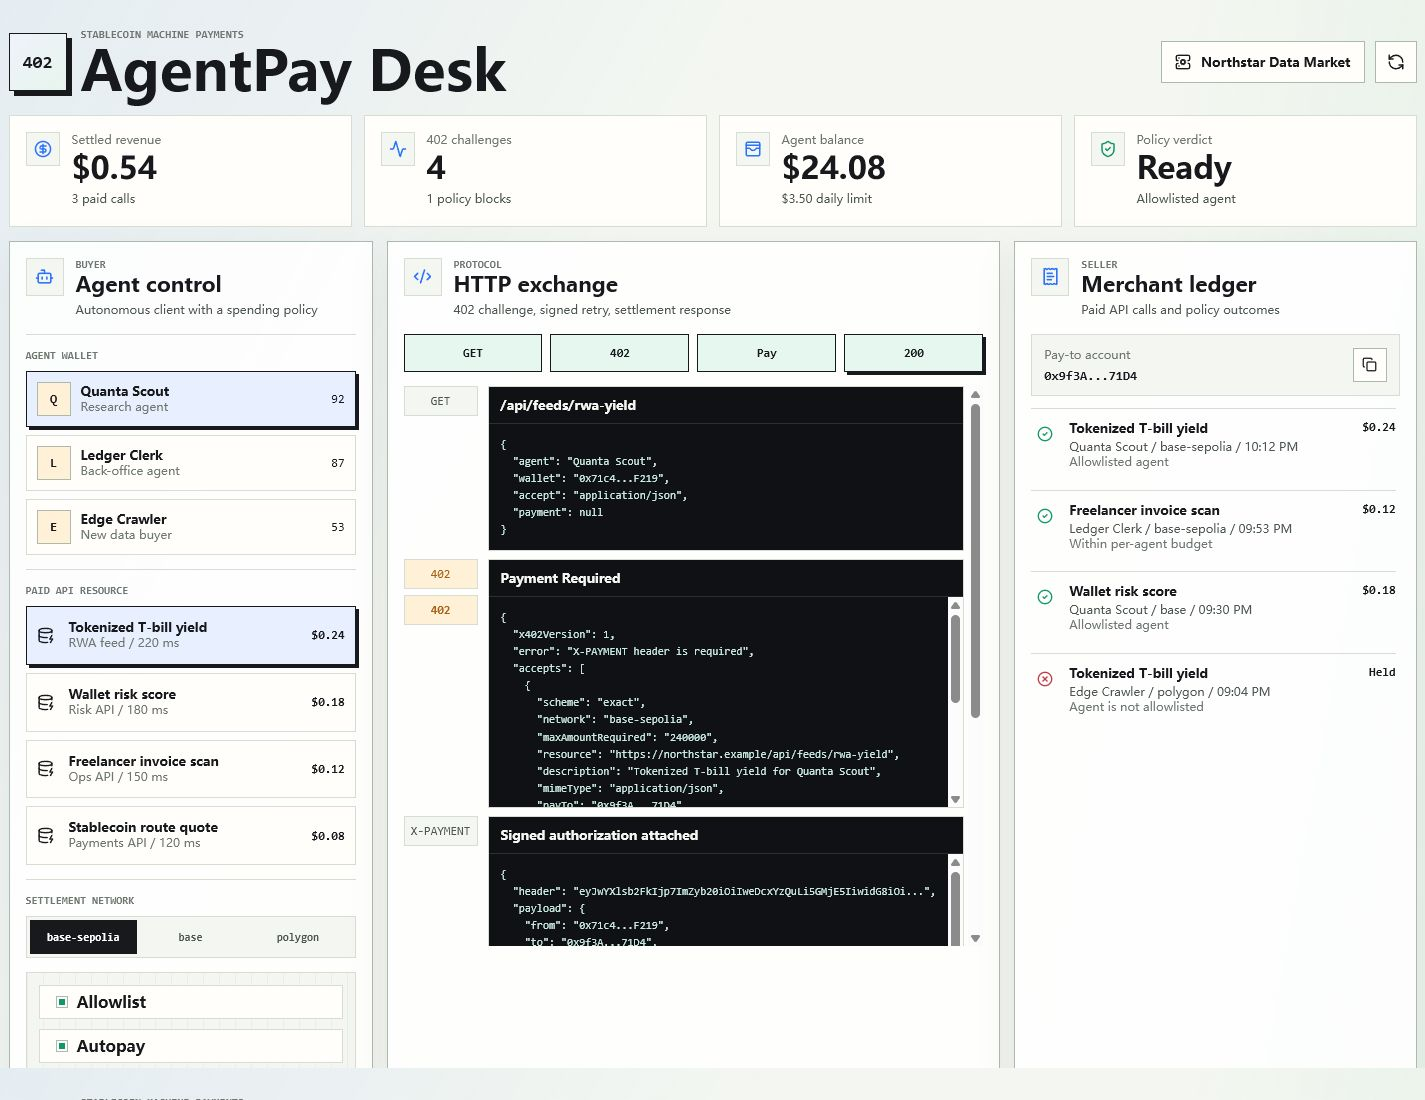
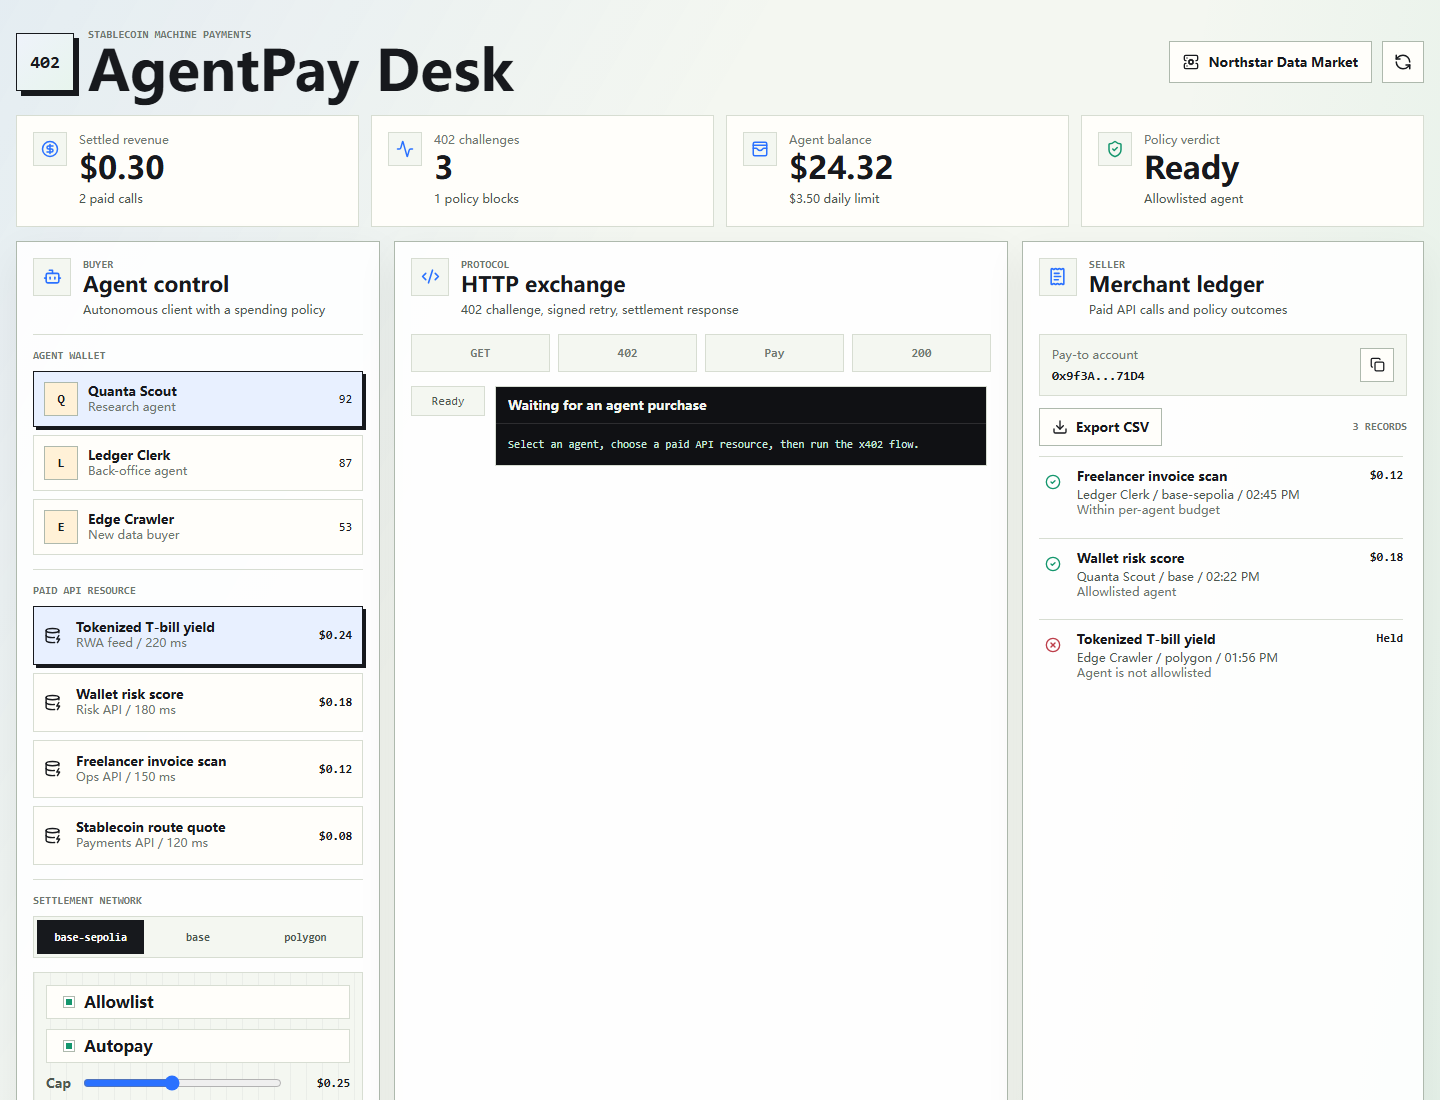
Add merchant ledger CSV export

diff --git a/src/App.css b/src/App.css
@@ -553,6 +553,46 @@ pre {
   font-size: 13px;
 }
 
+.ledger-toolbar {
+  display: flex;
+  align-items: center;
+  justify-content: space-between;
+  gap: 10px;
+  margin-bottom: 10px;
+}
+
+.ledger-toolbar > span {
+  color: var(--muted);
+  font-family: var(--mono);
+  font-size: 11px;
+  font-weight: 750;
+  text-transform: uppercase;
+}
+
+.secondary-action {
+  display: inline-flex;
+  min-height: 38px;
+  align-items: center;
+  justify-content: center;
+  gap: 8px;
+  padding: 0 12px;
+  border: 1px solid var(--line-strong);
+  background: var(--panel);
+  color: var(--ink);
+  cursor: pointer;
+  font-size: 13px;
+  font-weight: 850;
+  transition:
+    background 160ms ease,
+    transform 160ms ease,
+    box-shadow 160ms ease;
+}
+
+.secondary-action:hover {
+  transform: translateY(-1px);
+  box-shadow: 3px 3px 0 var(--ink);
+}
+
 .ledger-list {
   max-height: 480px;
   overflow: auto;

diff --git a/src/lib/x402Simulator.ts b/src/lib/x402Simulator.ts
@@ -369,6 +369,35 @@ export function createPayload(resource: ApiResource, settlementRef: string) {
   };
 }
 
+export function ledgerToCsv(entries: LedgerEntry[]): string {
+  const headers = [
+    "payment_id",
+    "created_at",
+    "status",
+    "agent_name",
+    "agent_wallet",
+    "resource_name",
+    "amount_usd",
+    "network",
+    "settlement_ref",
+    "risk_note",
+  ];
+  const rows = entries.map((entry) => [
+    entry.id,
+    entry.createdAt,
+    entry.status,
+    entry.agentName,
+    entry.wallet,
+    entry.resourceName,
+    entry.amountUsd.toFixed(2),
+    entry.network,
+    entry.settlementRef,
+    entry.riskNote,
+  ]);
+
+  return [headers, ...rows].map((row) => row.map(csvField).join(",")).join("\n");
+}
+
 export function money(value: number): string {
   return new Intl.NumberFormat("en-US", {
     style: "currency",
@@ -394,6 +423,14 @@ export function formatTime(value: string): string {
 
 function usdToUnits(value: number): string {
   return String(Math.round(value * 1_000_000));
+}
+
+function csvField(value: string): string {
+  if (/[",\n\r]/.test(value)) {
+    return `"${value.replace(/"/g, '""')}"`;
+  }
+
+  return value;
 }
 
 function randomToken(length: number): string {

diff --git a/src/App.tsx b/src/App.tsx
@@ -6,6 +6,7 @@ import {
   Code2,
   Copy,
   DatabaseZap,
+  Download,
   Play,
   ReceiptText,
   RefreshCcw,
@@ -28,6 +29,7 @@ import {
   createPayload,
   evaluateRisk,
   formatTime,
+  ledgerToCsv,
   merchant,
   money,
   resources,
@@ -217,6 +219,19 @@ function App() {
     setExchange(starterExchange);
     setPayload(null);
     setPhase("idle");
+  }
+
+  function exportLedgerCsv() {
+    const csv = ledgerToCsv(ledger);
+    const blob = new Blob([csv], { type: "text/csv;charset=utf-8" });
+    const url = URL.createObjectURL(blob);
+    const link = document.createElement("a");
+    link.href = url;
+    link.download = `agentpay-ledger-${new Date().toISOString().slice(0, 10)}.csv`;
+    document.body.appendChild(link);
+    link.click();
+    link.remove();
+    URL.revokeObjectURL(url);
   }
 
   return (
@@ -432,6 +447,14 @@ function App() {
             <button className="icon-button small" type="button" aria-label="Copy pay-to account">
               <Copy size={15} />
             </button>
+          </div>
+
+          <div className="ledger-toolbar">
+            <button className="secondary-action" type="button" onClick={exportLedgerCsv}>
+              <Download size={16} />
+              <span>Export CSV</span>
+            </button>
+            <span>{ledger.length} records</span>
           </div>
 
           <div className="ledger-list">

diff --git a/src/lib/x402Simulator.test.ts b/src/lib/x402Simulator.test.ts
@@ -5,6 +5,7 @@ import {
   createChallenge,
   createLedgerEntry,
   evaluateRisk,
+  ledgerToCsv,
   resources,
   starterLedger,
 } from "./x402Simulator";
@@ -70,5 +71,22 @@ describe("x402 simulator", () => {
     expect(entry.status).toBe("settled");
     expect(entry.amountUsd).toBe(resources[2].priceUsd);
     expect(entry.settlementRef).toMatch(/^set_0x[0-9a-f]+$/);
+  });
+
+  it("exports ledger entries as escaped CSV", () => {
+    const csv = ledgerToCsv([
+      {
+        ...starterLedger[0],
+        resourceName: 'Invoice scan, "priority"',
+        riskNote: "Within budget, approved",
+      },
+    ]);
+
+    expect(csv.split("\n")[0]).toBe(
+      "payment_id,created_at,status,agent_name,agent_wallet,resource_name,amount_usd,network,settlement_ref,risk_note",
+    );
+    expect(csv).toContain('"Invoice scan, ""priority"""');
+    expect(csv).toContain('"Within budget, approved"');
+    expect(csv).toContain(",0.12,");
   });
 });

diff --git a/README.md b/README.md
@@ -32,6 +32,7 @@ This version uses a local simulator instead of moving real USDC. That keeps the 
 - Paid API marketplace for RWA yield data, wallet risk scoring, invoice scanning, and stablecoin route quotes.
 - x402-style HTTP exchange panel with `402`, `X-PAYMENT`, and `X-PAYMENT-RESPONSE`.
 - Merchant ledger for settled and blocked API calls.
+- Merchant ledger CSV export for lightweight accounting and reconciliation.
 - Risk controls for allowlisting, autopay, settlement network, and per-call spend caps.
 - Unit-tested payment requirement creation, authorization payloads, policy blocks, and settlement records.
 - Responsive dashboard UI for desktop and mobile.
@@ -71,6 +72,7 @@ npm run build
 2. Point out the first unauthenticated request, the `402 Payment Required` challenge, the signed `X-PAYMENT` retry, and the final `X-PAYMENT-RESPONSE`.
 3. Select `Edge Crawler` and run the flow again to show policy blocking for a non-allowlisted agent.
 4. Lower the spend cap below the endpoint price to show per-call risk enforcement.
+5. Click `Export CSV` to download the merchant ledger for reconciliation.
 
 ## Architecture
 
@@ -128,4 +130,4 @@ vercel --prod
 - Built an x402-style stablecoin payment desk for AI agents buying paid API resources.
 - Implemented 402 challenge handling, signed payment retry simulation, merchant ledger, and risk-policy checks in React + TypeScript.
 - Added unit tests for payment requirement creation, authorization payloads, policy blocks, and settlement records.
-- Designed a responsive dashboard for agent budgets, USDC-style payment authorization, paid payload delivery, and merchant reconciliation.
+- Designed a responsive dashboard for agent budgets, USDC-style payment authorization, paid payload delivery, CSV export, and merchant reconciliation.